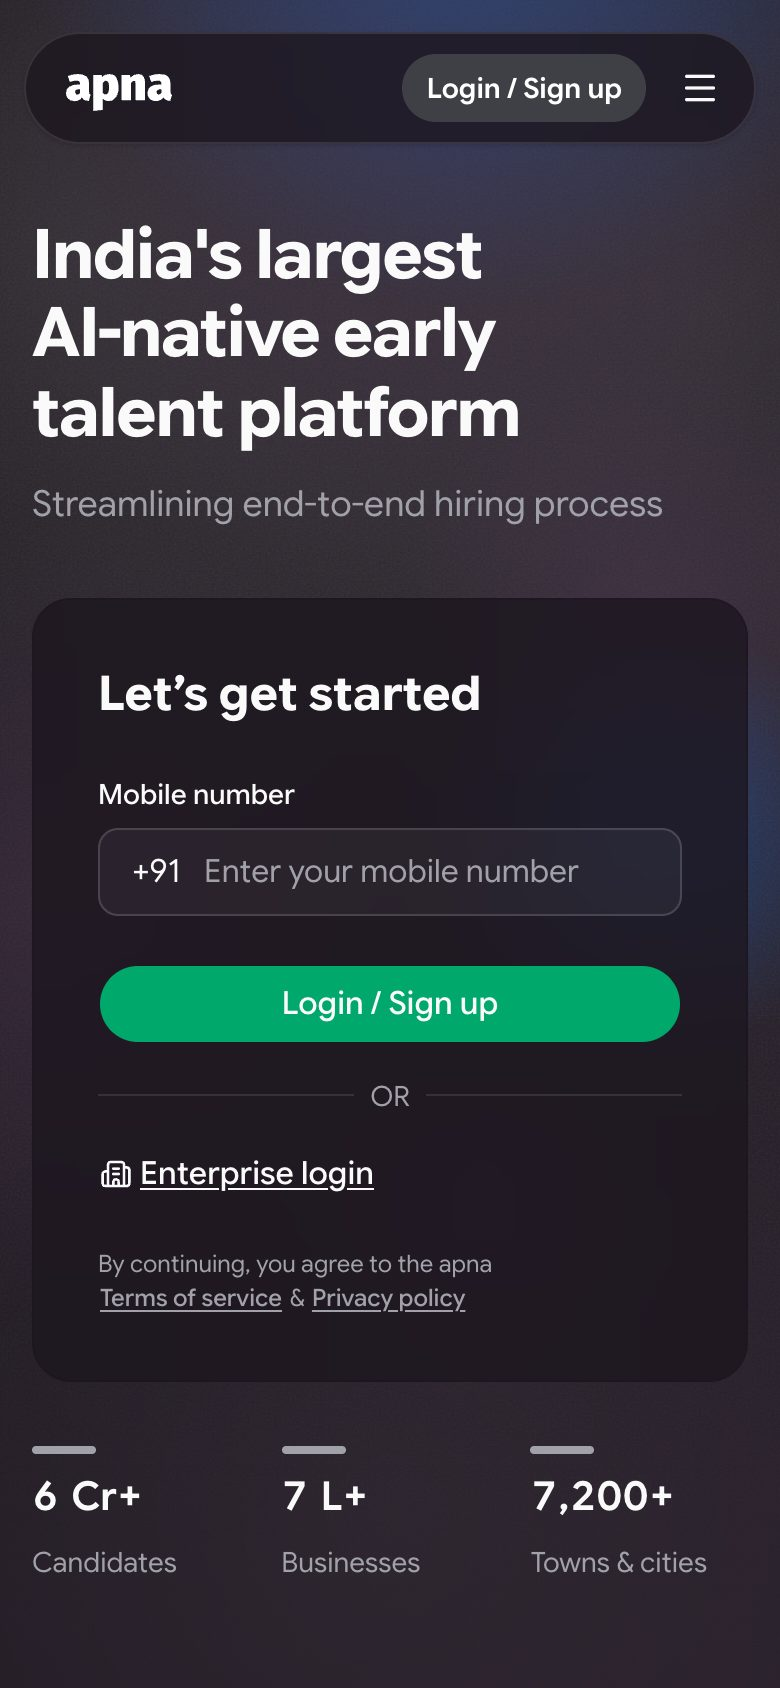
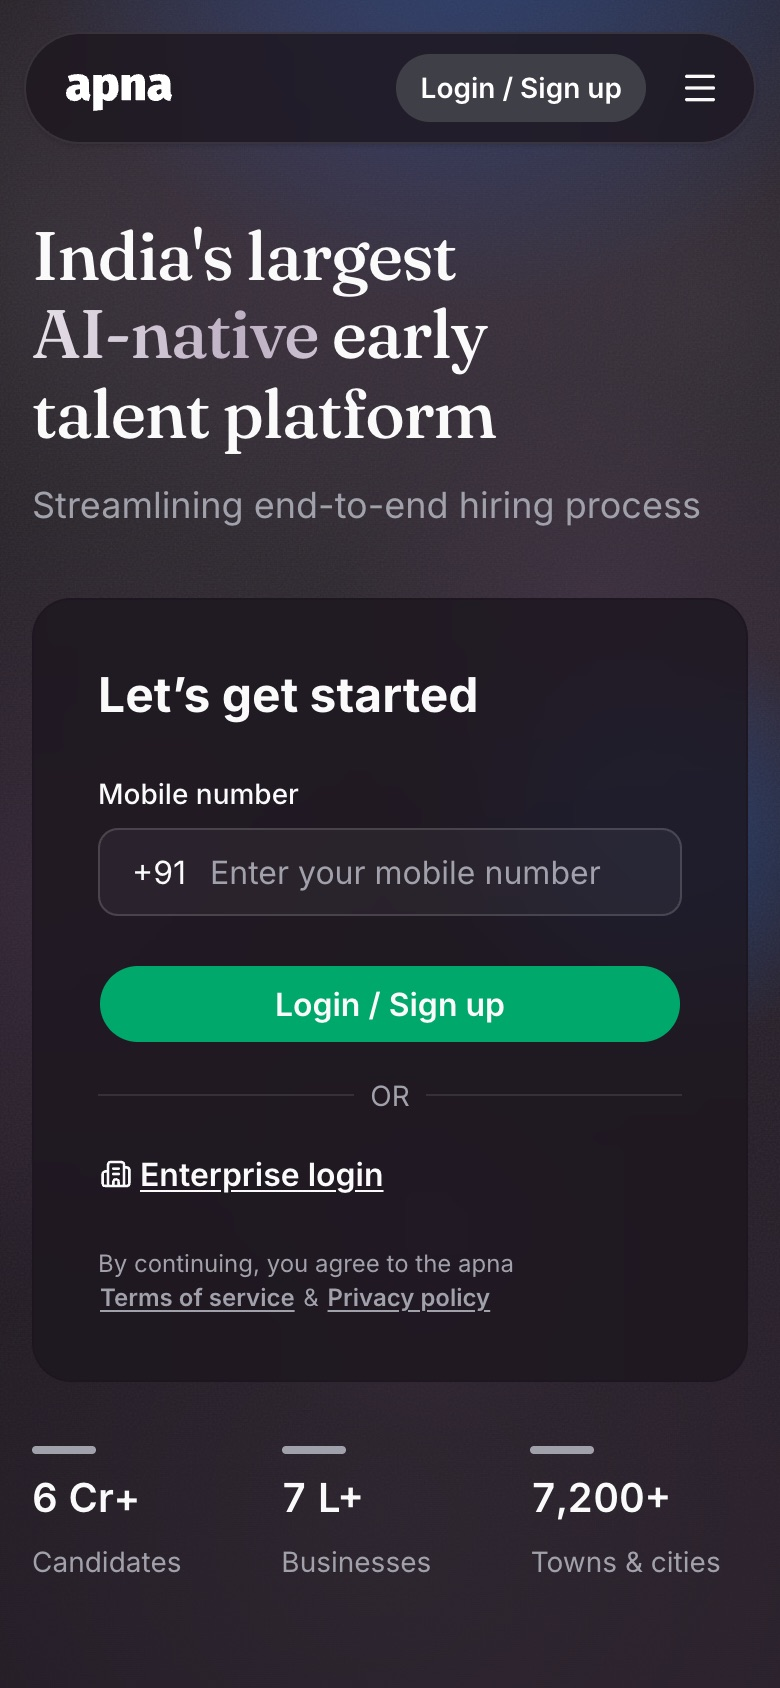
Redrawn: today's homepage screenshots (desktop + phone, light + dark); Homepage replaces the Pricing tab

diff --git a/public/redrawn/index.html b/public/redrawn/index.html
@@ -1070,13 +1070,13 @@ em { font-style: normal; }
       <h2 class="rise">Built for the <em>daily work.</em></h2>
       <div class="toggle rise" role="group" aria-label="Choose a screen">
         <button type="button" class="screen-btn" data-screen="dashboard" aria-pressed="true">Recruiter dashboard</button>
-        <button type="button" class="screen-btn" data-screen="pricing" aria-pressed="false">Pricing</button>
+        <button type="button" class="screen-btn" data-screen="home" aria-pressed="false">Homepage</button>
       </div>
       <figure class="browser rise">
         <div class="browser-bar" aria-hidden="true"><i></i><i></i><i></i><span id="browser-url">employer.apna.co/jobs</span></div>
         <div class="browser-view">
           <img src="img/dashboard.jpg" data-dark="img/dashboard-dark.jpg" alt="The recruiter dashboard: jobs list with applied, active leads and database matches" class="screen on" data-screen="dashboard" loading="lazy">
-          <img src="img/pricing.jpg" data-dark="img/pricing-dark.jpg" alt="The pricing page: job credit bundles, apna Unlimited and the plan tabs" class="screen" data-screen="pricing" loading="lazy">
+          <img src="img/home.jpg" data-dark="img/home-dark.jpg" alt="The homepage: Fraunces headline with AI-native in a plum sweep, and the sign-up card" class="screen" data-screen="home" loading="lazy">
         </div>
       </figure>
     </div>
